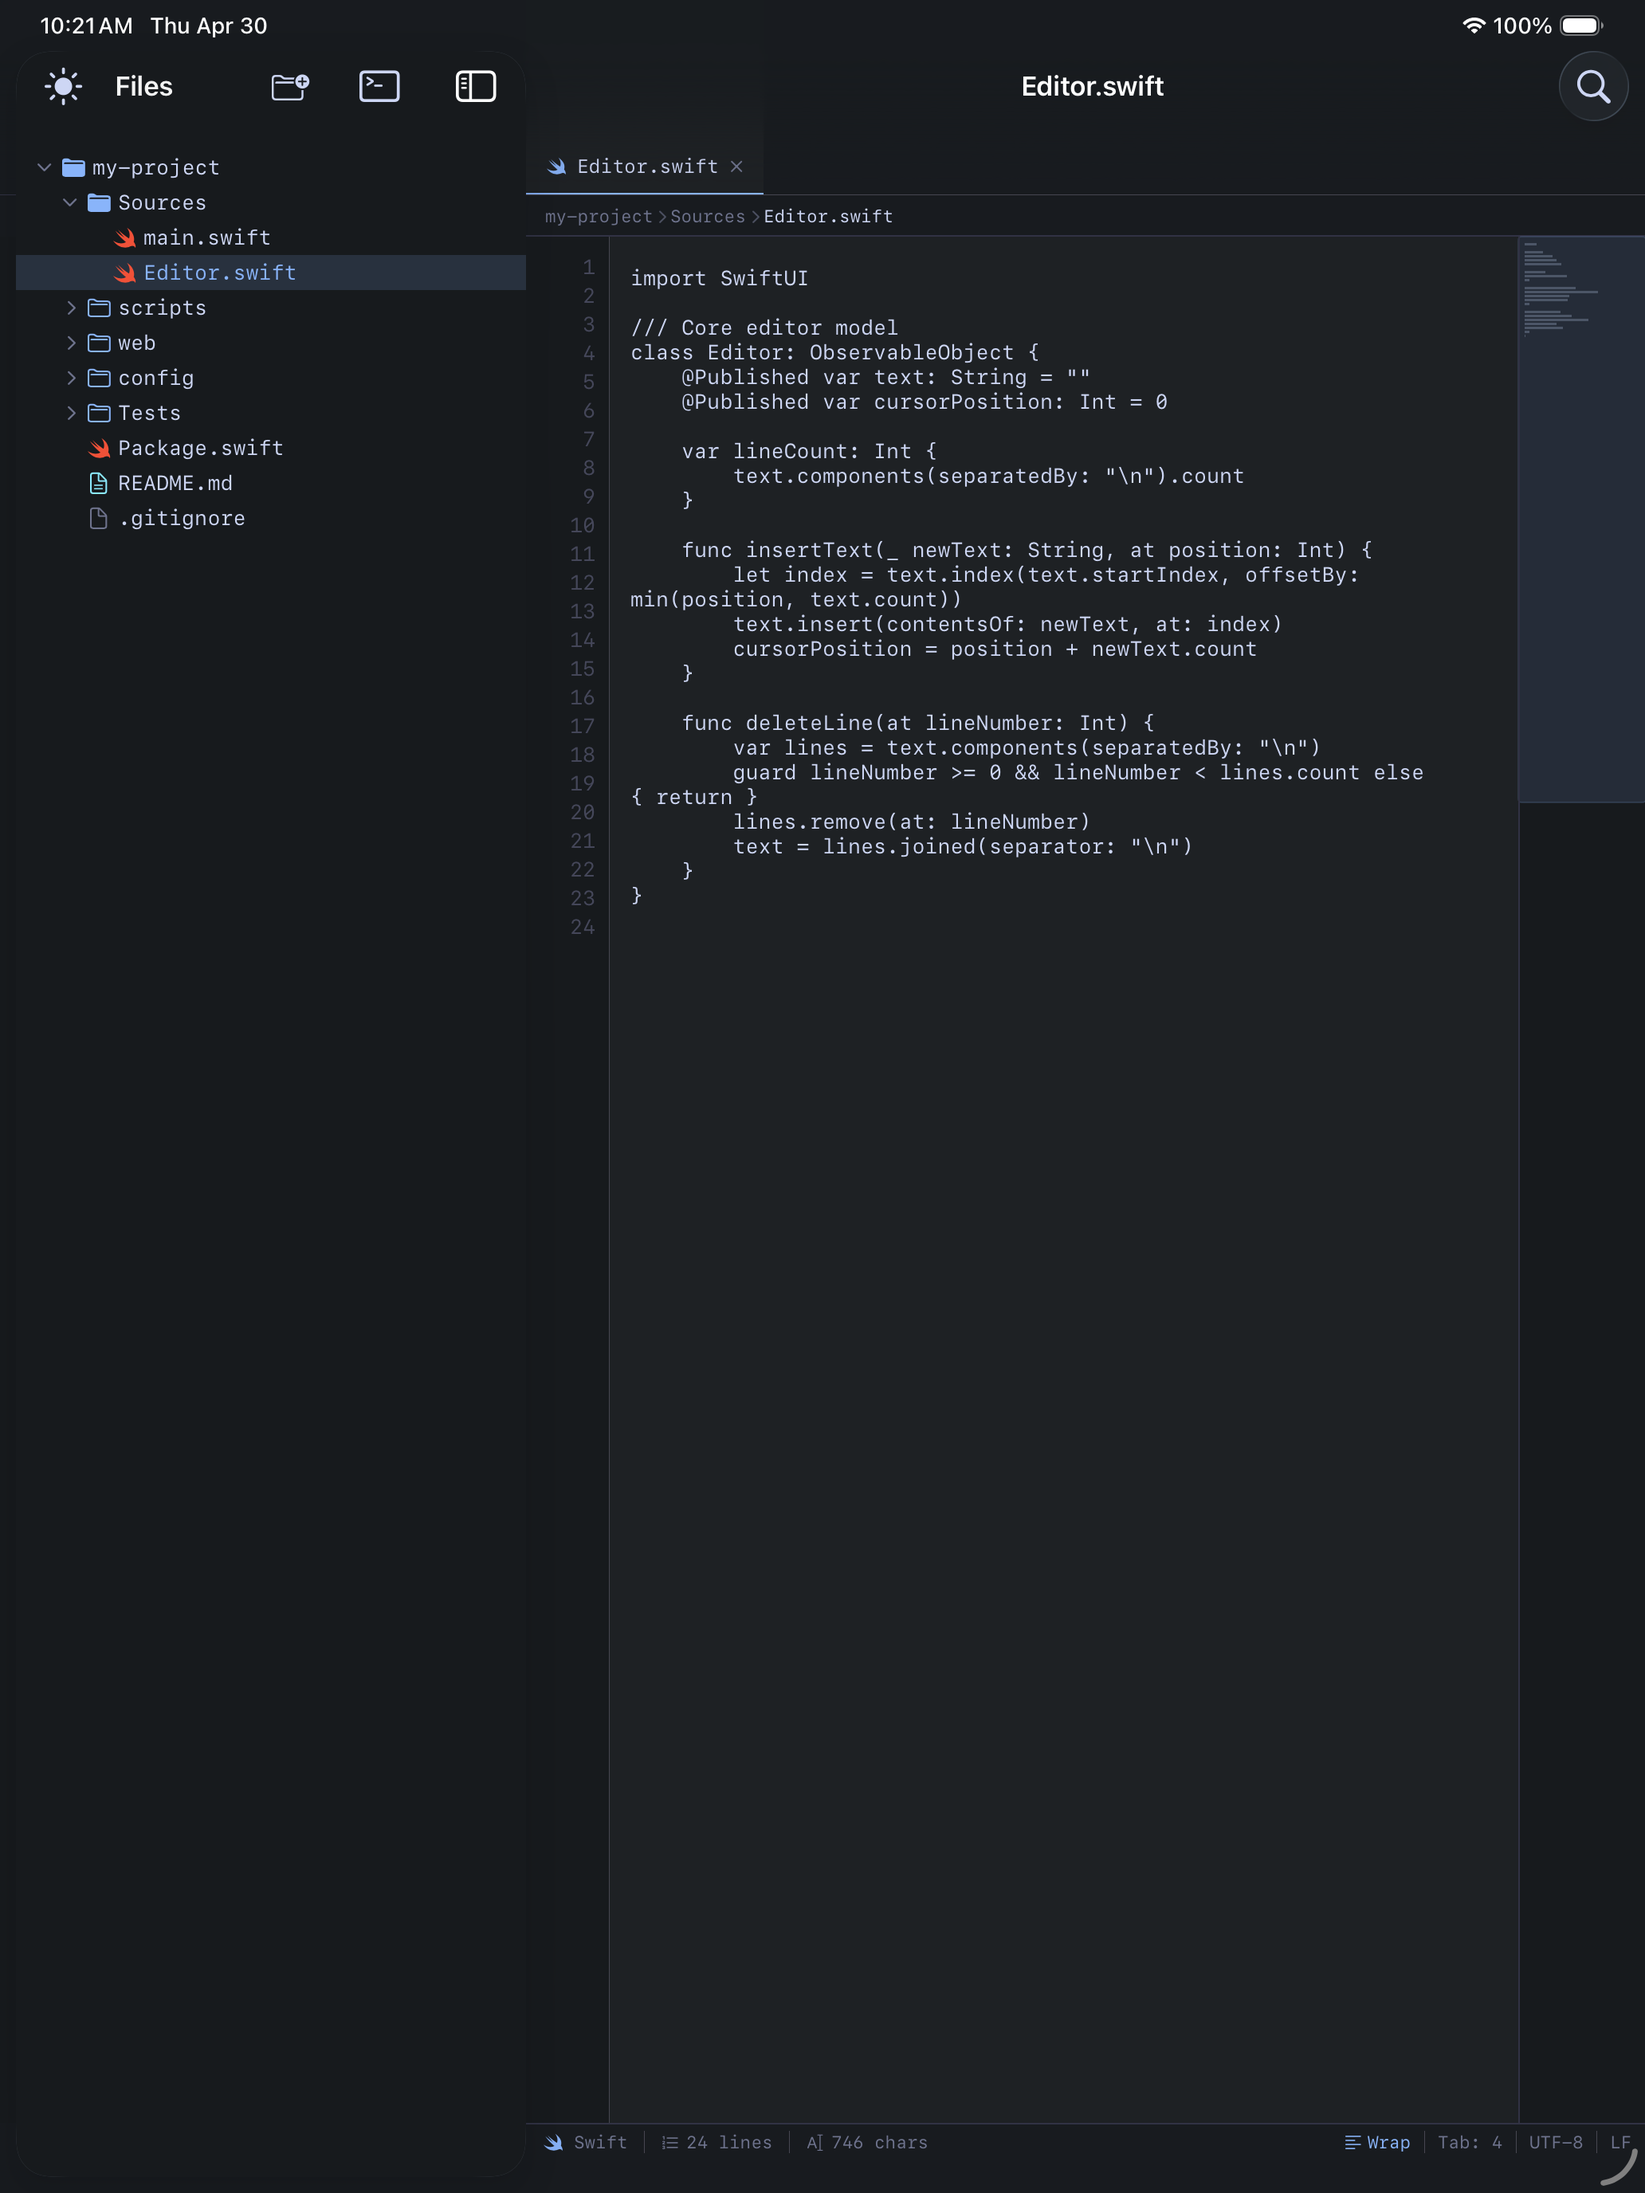
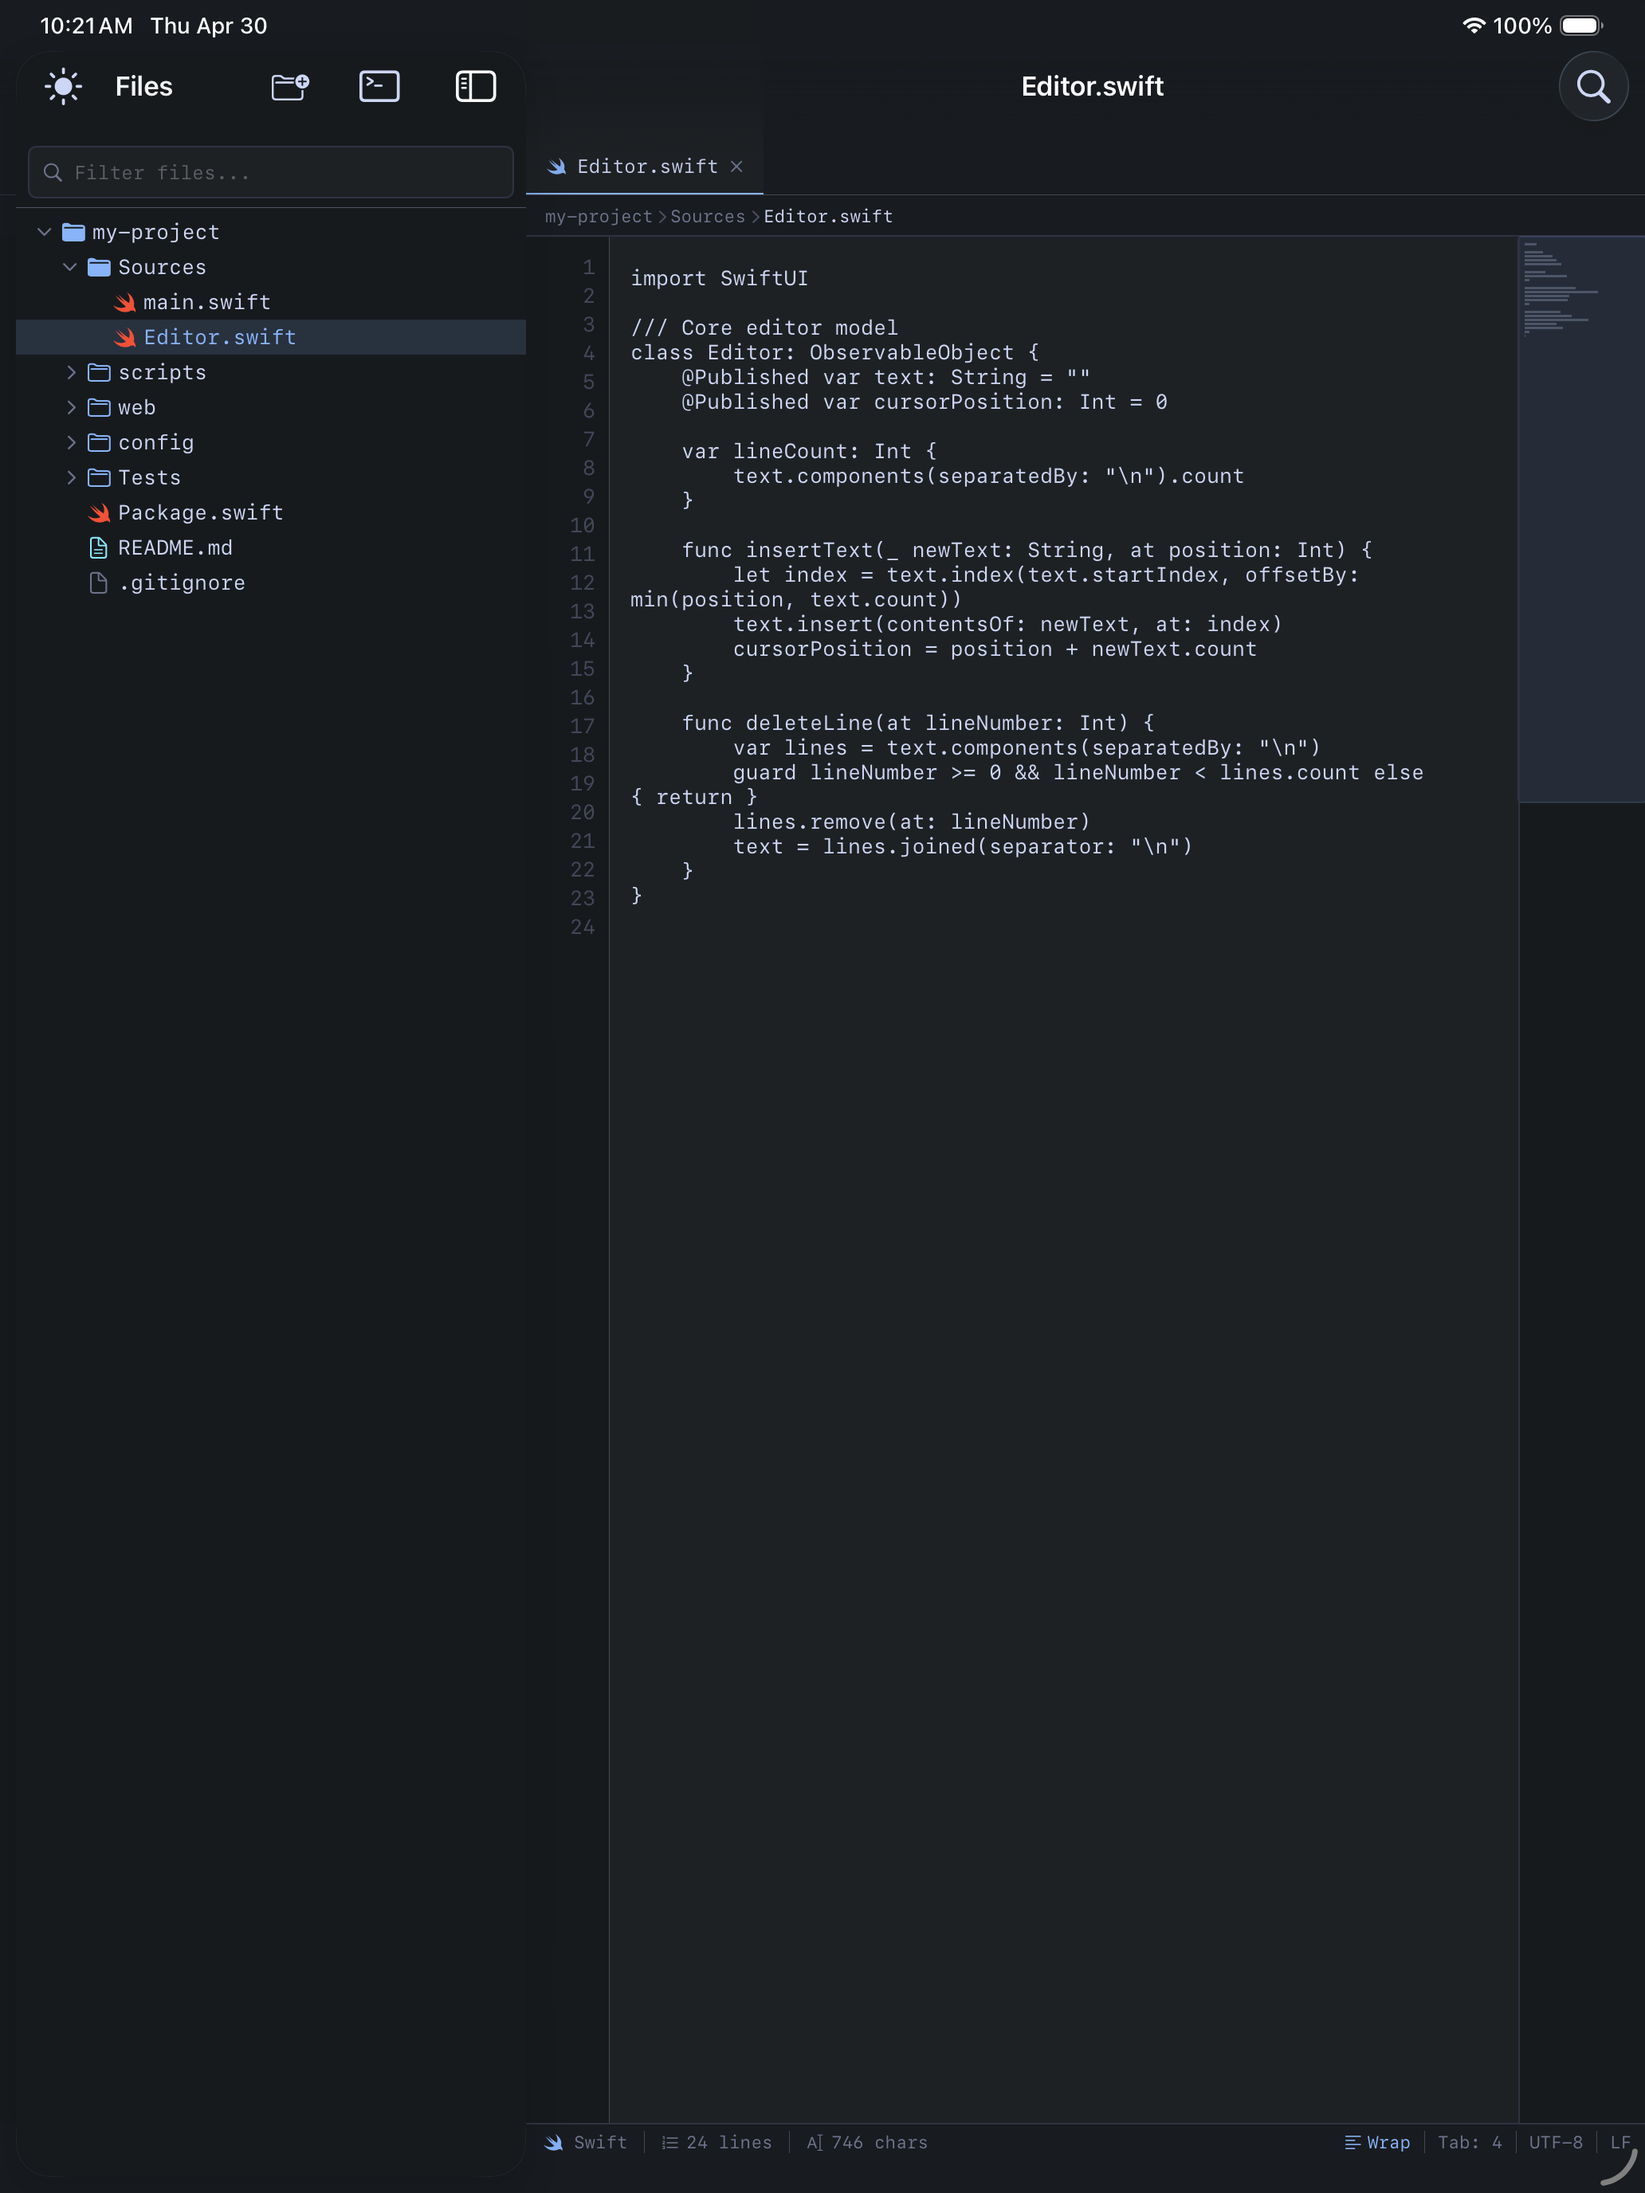
experiment: iter 42 — 2 new UI tests (file filter, One Dark theme), 21 UI, 24 screenshots (score: 4287)

Changed region(s): [[0.0, 0.0625, 0.3411, 0.2812]]

diff --git a/ZedIPadUITests/ZedIPadUITests.swift b/ZedIPadUITests/ZedIPadUITests.swift
@@ -332,4 +332,51 @@ final class ZedIPadUITests: XCTestCase {
         }
         XCTAssertTrue(app.exists)
     }
+
+    func testFileFilterSearch() throws {
+        let filterField = app.textFields["Filter files..."]
+        if filterField.waitForExistence(timeout: 3) {
+            filterField.tap()
+            filterField.typeText("swift")
+            Thread.sleep(forTimeInterval: 0.5)
+            saveScreenshot(named: "22_file_filter_swift")
+            filterField.clearText()
+            filterField.typeText("json")
+            Thread.sleep(forTimeInterval: 0.4)
+            saveScreenshot(named: "23_file_filter_json")
+        } else {
+            saveScreenshot(named: "22_filter_not_found")
+        }
+        XCTAssertTrue(app.exists)
+    }
+
+    func testOneDarkTheme() throws {
+        let paletteButton = app.buttons["Open command palette"]
+        if paletteButton.waitForExistence(timeout: 3) {
+            paletteButton.tap()
+            Thread.sleep(forTimeInterval: 0.5)
+            let oneDark = app.staticTexts["One Dark Theme"]
+            if oneDark.waitForExistence(timeout: 2) {
+                oneDark.tap()
+                Thread.sleep(forTimeInterval: 0.4)
+                saveScreenshot(named: "24_one_dark_theme")
+            }
+        }
+        XCTAssertTrue(app.exists)
+    }
+}
+
+extension XCUIElement {
+    func clearText() {
+        guard let currentValue = self.value as? String, !currentValue.isEmpty else { return }
+        self.tap()
+        let selectAll = XCUIApplication().menuItems["Select All"]
+        if selectAll.waitForExistence(timeout: 0.5) {
+            selectAll.tap()
+            self.typeText(XCUIKeyboardKey.delete.rawValue)
+        } else {
+            let deleteString = String(repeating: XCUIKeyboardKey.delete.rawValue, count: currentValue.count)
+            self.typeText(deleteString)
+        }
+    }
 }
